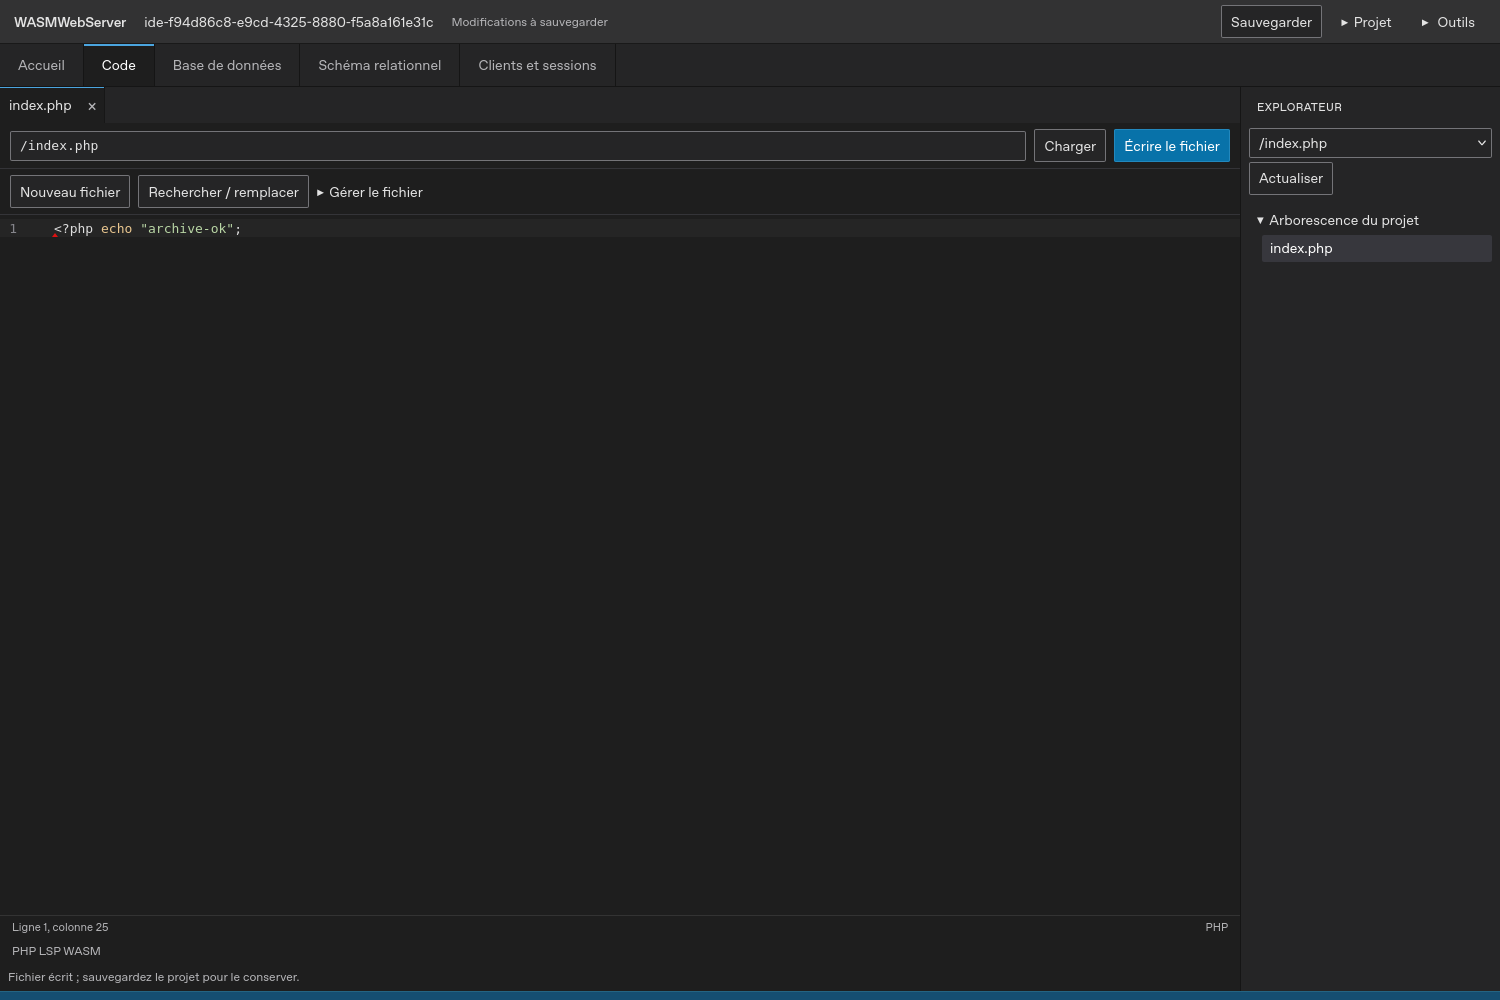
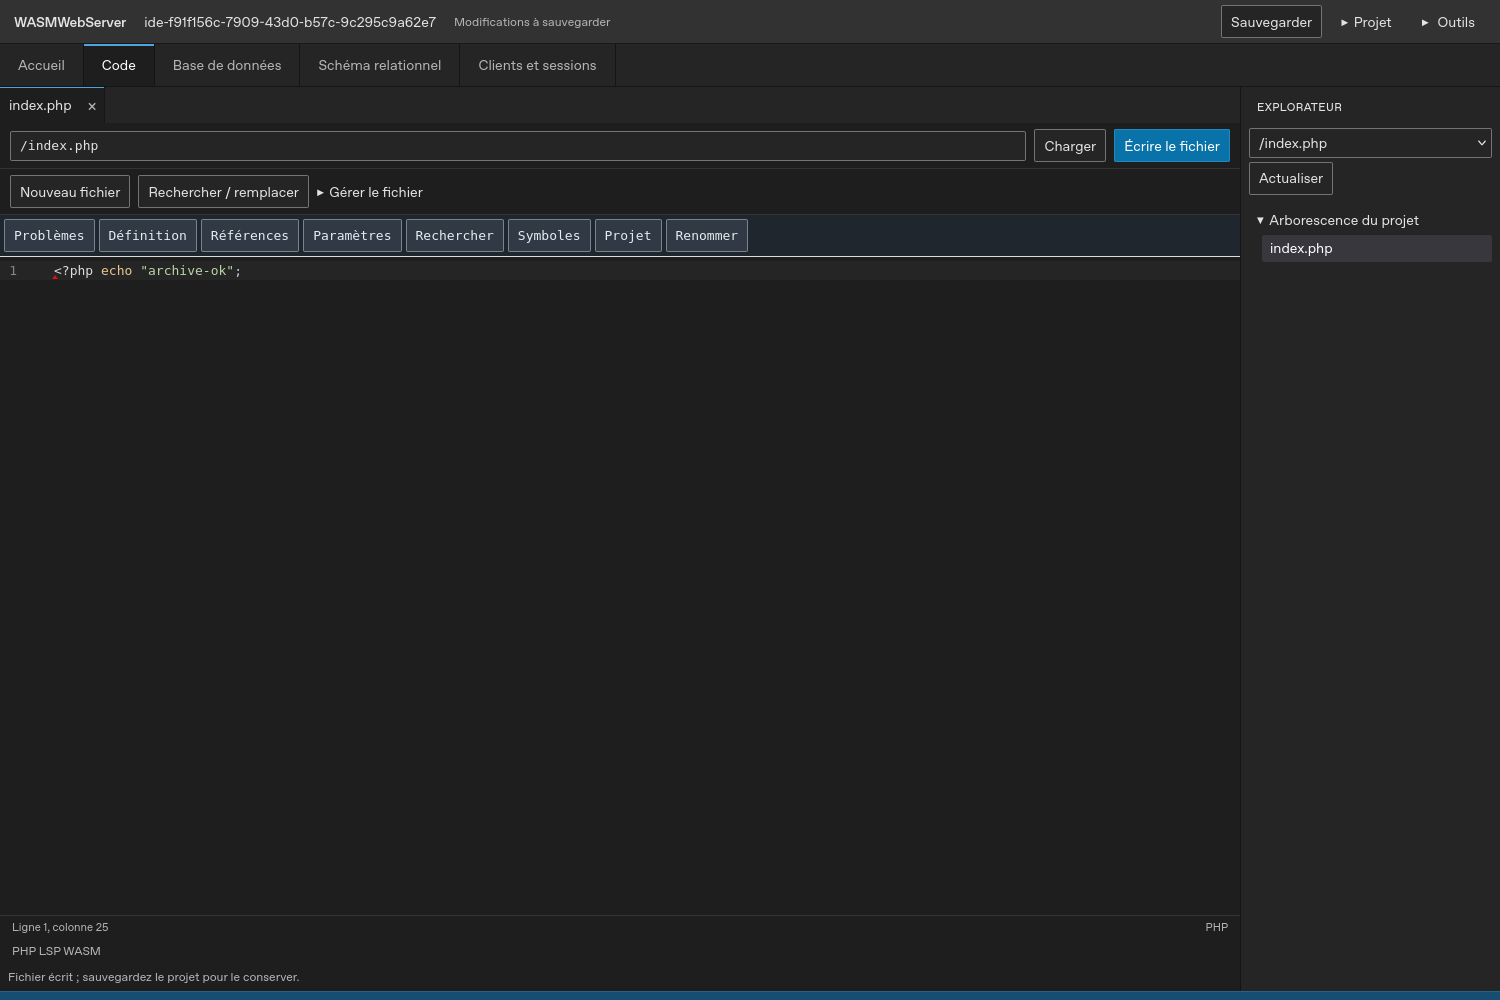
Clarify technical guides and wait for asynchronous file-list refresh

Changed region(s): [[0.0, 0.217, 0.5213, 0.279], [0.1227, 0.0, 0.3987, 0.031]]

diff --git a/apps/studio/README.md b/apps/studio/README.md
@@ -1,45 +1,16 @@
-# Studio navigateur du runtime natif
+# Studio : points d’entrée techniques
 
-Démarrage après compilation du target `pbl-runtime` :
+`index.html` définit la coque et les modèles DOM. `studio.mjs` orchestre les outils et le cycle du projet ; `service-worker.mjs` route les requêtes clientes vers le propriétaire moteur. `database/` regroupe les modèles SQL, DDL, valeurs et schéma ; `editor/` fournit CodeMirror et les services de langage.
+
+Les URL publiques de l’entrée, du Service Worker et des workers d’édition sont conservées. `scripts/package-studio.mjs` assemble les modules SQL et les bundles d’édition ; `scripts/serve-studio.mjs` sert les sources et associe sql-export.source.txt à database/sql-export.php. Ne pas servir ce dernier comme un backend PHP distant.
+
+Pour travailler sur cette application :
 
 ```sh
-npm ci
-npm run editor:build
 node scripts/serve-studio.mjs
+node tests/browser/editor-workbench.mjs
+node tests/browser/ide-workspace.mjs
+node tests/browser/studio-shell.mjs chromium
 ```
 
-Pour un hébergement statique ou un paquet de test autonome, suivre [DEPLOYMENT.md](../../docs/deployment.md). La préparation du paquet et sa réussite locale ne signifient pas qu'une URL publique a été publiée.
-
-Le serveur de développement fournit uniquement les ressources statiques, les en-têtes COOP/COEP et le module compilé. PHP et MariaDB s'exécutent dans le navigateur. Le studio possède un Worker moteur par projet ; le Service Worker route les requêtes des fenêtres vers ce propriétaire. Fermer le studio coupe donc le service des clients.
-
-La [première interface structurée](../../docs/README.md) sépare Code, SQL et données, Schéma, Clients, Ressources et Journal. Les onglets se parcourent au clavier. Le journal local conserve au plus 200 événements bornés, erreurs PHP/SQL et requêtes HTTP, sans corps, cookies ni paramètres d'URL ; il s'exporte en JSON. Un bandeau conserve la dernière erreur avec une piste de récupération jusqu'à sa fermeture explicite. Les [éditeurs CodeMirror et leurs services](editor/README.md) sont maintenant intégrés : PHP LSP Rust/WASM, SuperHTML et SWC avec définitions jQuery internes. La complétion PHP ne lance aucun interpréteur PHP supplémentaire.
-
-Ouvrir un projet, charger l'exemple scolaire dans un projet vide, puis ouvrir plusieurs fenêtres. « Fenêtre dans cette session » partage les cookies/PHPSESSID ; « Nouveau client indépendant » crée une identité distincte. Toutes utilisent la même base. Les requêtes PHP sont sérialisées dans la file bornée du moteur.
-
-L'éditeur lit et écrit le même VFS que PHP. La console et la grille interrogent directement le pont C ; la grille permet de modifier une cellule lorsqu'une clé primaire existe (100 lignes par page SQL, avec ordre par clé primaire lorsqu’elle existe). La grille préserve NULL et binaires, refuse une modification si les valeurs de la ligne ont changé et affiche structure/index. Un formulaire distingue DEFAULT, NULL, texte et binaire pour l’insertion ; une suppression demande confirmation et vérifie également la ligne d’origine. Le schéma lit `information_schema`, affiche toutes les colonnes, marque les clés et relie les colonnes des clés étrangères ; les tables sont déplaçables. Un formulaire crée une clé étrangère à partir du catalogue, avec actions ON DELETE/ON UPDATE ; les dialogues affichent le DDL puis relisent le schéma après application. Les outils peuvent être mis en veille ou déchargés avec conservation du brouillon dans IndexedDB. Le déchargement SQL ferme sa connexion et annule ses transactions non validées.
-
-« Sauvegarder » ferme SQL proprement, synchronise un snapshot IDBFS commun fichiers/SQL/sessions pour les nouveaux projets (anciens magasins conservés en compatibilité), puis recrée le moteur. Les changements non sauvegardés peuvent être perdus si l'onglet est arrêté. L’export ZIP réunit désormais les fichiers et les bases utilisateur actives avec un manifeste. Importez dans un projet vide ; les sessions clientes ne font pas partie du ZIP. Compression et décompression tournent dans un worker avec les primitives natives du navigateur. Le [guide de l’espace IDE](../../docs/README.md) décrit les onglets, la complétion contextuelle, les formulaires SQL, les relations par glisser-déposer, les cardinalités et les limites exactes.
-
-
-## Portée actuelle
-
-L'isolation virtuelle d'une même origine couvre cookies, localStorage et noms IndexedDB usuels ; sessionStorage reste propre à chaque fenêtre. Le bootstrap réécrit les URL usuelles de liens, formulaires, fetch et XHR. Ce mécanisme n'est pas une frontière de sécurité pour du code hostile, ni une émulation complète d'une origine navigateur : CSP, iframes, Workers créés par les projets, autres API de stockage et domaines de cookies parents demandent encore du travail. Une isolation par véritables origines reste à comparer.
-
-Le réseau PHP utilise les streams HTTP/HTTPS C soumis aux règles CORS et aux restrictions du navigateur. Aucun socket TCP/UDP général n'est fourni. MySQLi reste un sous-ensemble explicite, décrit dans `packages/php-native/README.md`.
-
-Vérification ciblée, avec les navigateurs Playwright installés :
-
-```sh
-PLAYWRIGHT_BROWSERS_PATH=/workspace/.cache/ms-playwright node tests/browser/studio.mjs
-PLAYWRIGHT_BROWSERS_PATH=/workspace/.cache/ms-playwright node tests/browser/studio-shell.mjs
-```
-
-Les reçus et captures de ce scénario vont dans `build-work/studio-receipts/`. Un échec n'est jamais un reçu de réussite. La capacité linéaire WASM affichée ne représente pas la RAM résidente ; les gains mémoire du déchargement et la tenue en charge restent à mesurer.
-
-La couverture reste inférieure à phpMyAdmin : les formulaires de tables, colonnes, index et contraintes ainsi que le ZIP multi-bases sont disponibles ; les gros imports et les formulaires avancés de routines/privilèges restent à compléter. Les commandes SQL explicites sont disponibles. Les limites du moteur ne doivent pas être masquées par l’interface.
-
-Le changement de projet rend les outils inertes pendant la transition et refuse les actions mises en attente depuis un autre propriétaire. La vue SQL conserve table et page lors du déchargement et relit les données au retour. Les fichiers de projet cachés usuels (.env, .htaccess) sont affichés/exportés ; les sessions et fichiers internes du studio restent exclus.
-
-La sauvegarde attend les requêtes déjà acceptées avant de figer les cookies/sessions. Après un échec de stockage, les nouveaux clients reçoivent 503 jusqu’au réessai. L’état SQL arrêté ne redémarre jamais dans le même WASM ; le studio recrée son propriétaire après sauvegarde réussie. Voir les [preuves de récupération](../../engine/fusion/STORAGE-RECOVERY-RECEIPT.md).
-
-Le [rapport d'interface](../../docs/README.md) consigne les skills appliqués, états rendus, contrastes et limites de vérification. La page locale `/apps/studio/interface-stress.html` affiche le vrai composant de diagnostic sous dix scénarios isolés ; ses données sont des exemples, sans projet actif.
+La préparation du moteur et de Playwright est décrite dans [CONTRIBUTING](../../CONTRIBUTING.md). Le [guide utilisateur](../../docs/README.md) porte les procédures fonctionnelles ; [architecture](../../docs/architecture.md) porte le stockage et les responsabilités. Les reçus locaux sont sous receipts/ et build-work/ ; ils sont liés à la révision testée.

diff --git a/docs/performance.md b/docs/performance.md
@@ -1,5 +1,7 @@
 # Performance : mesures et protocole
 
+> Les séries ci-dessous sont datées et ne constituent pas une nouvelle mesure de main. Le paquet IDE preview.2 pèse 23 109 017 octets ; son WASM natif 38 249 873 octets. Les anciennes tailles ZIP/WASM citées dans les séries ne décrivent pas cette distribution. Aucun profil utilisateur interchangeable ni gain RAM du dernier éditeur n’a été mesuré.
+
 
 ## Profils de performance et choix conseillé — 1 novembre 2026
 
@@ -17,7 +19,7 @@ Il n'existe pas encore de sélecteur de profils dans le studio. Le moteur actuel
 
 Décharger un outil ne retire pas ses fonctions JavaScript déjà chargées du module principal du studio. Fermer la console ne coupe pas MariaDB utilisée par PHP. La sauvegarde arrête SQL proprement et recrée le moteur ; la première connexion suivante réactive SQL. Aucun redémarrage SQL dans le même WASM arrêté, aucun rejeu automatique de POST.
 
-## Mesures du binaire actuel, refaites pour ce bilan
+## Mesures historiques du 1 novembre 2026
 
 Un navigateur neuf par exécution, Chromium 156.0.8078.4 et Firefox 157.0 sous Linux. Le protocole crée un runtime, exécute PHP seul, initialise SQL, crée 1 000 lignes et mesure 100 requêtes `COUNT(*)`. PSS globale = ensemble des processus descendants du test Playwright ; elle inclut navigateur, JS/JIT, Workers, WASM et VFS. Il ne s'agit ni de la seule RAM du moteur ni d'un pic continu.
 

diff --git a/provenance/reorganization-audit.md b/provenance/reorganization-audit.md
@@ -7,3 +7,5 @@ Constats : README moteur décrivant encore la cible future ; build de production
 Choix : ne pas découper artificiellement le contrôleur studio ni déplacer les points d’entrée web ; regrouper les modules SQL avec leurs dépendances ; conserver la profondeur de la recette native pour préserver ses chemins relatifs et son empreinte ; cinq guides de référence et CONTRIBUTING. Tests unitaires conservés au premier niveau, fixtures communes conservées. Aucun dossier vide.
 
 Les bilans chronologiques et procédures initiales obsolètes supprimés de docs restent dans Git ; les décisions, mesures, commandes et limites utiles sont reprises dans les guides. Les sources, notices et preuves natives restent conservées. La conversation de provenance est historique, pas une instruction active. Aucun tag applicatif existant déplacé ; aucune release utile supprimée. Pas de choix arbitraire d’une licence globale.
+
+Validation de migration : release technique publiée par le workflow 41548489229 ; manifeste et deux fichiers téléchargés indépendamment, SHA256SUMS vérifié. La CI 41548487642 a restauré cette release et validé le paquet sur les deux navigateurs ; un contrôle de suppression de fichier lisait la liste avant sa mise à jour asynchrone. Le test attend désormais le retrait réel de l’option. Les parcours locaux code/SQL et IDE passent sur Chromium et Firefox.

diff --git a/.github/workflow-templates/README.md b/.github/workflow-templates/README.md
@@ -2,4 +2,4 @@
 
 Ces trois workflows appartenaient à la préparation des sources et aux témoins amont : compilation PHP/MariaDB séparés, mesure du témoin et archivage des sources. Ils sont conservés hors de `workflows/` pour leur reproductibilité et ne se déclenchent plus.
 
-Pour une nouvelle expérience amont, copier explicitement la recette nécessaire dans `.github/workflows/`, vérifier ses versions et la lancer manuellement. Le produit courant utilise les deux workflows actifs : validation du studio et publication FTP manuelle. Les binaires natifs validés sont publiés dans une release technique épinglée et vérifiés contre leurs sources.
+Pour une nouvelle expérience amont, copier explicitement la recette nécessaire dans `.github/workflows/`, vérifier ses versions et la lancer manuellement. Le produit courant utilise trois workflows actifs : validation du studio, publication FTP manuelle et distribution technique native. Les binaires natifs validés sont publiés dans une release technique épinglée et vérifiés contre leurs sources.

diff --git a/apps/README.md b/apps/README.md
@@ -8,4 +8,4 @@ Chaque outil évolue entre actif, en veille et déchargé. Le déchargement cons
 
 La compatibilité navigateur complète, la comparaison d'origines séparées et les gains de mémoire physiques restent ouverts. Voir les limites du guide du studio.
 
-Orientation de l’éditeur : [CodeMirror 6, services WASM et définitions jQuery internes](../docs/README.md). Ces composants sont demandés mais pas encore intégrés.
+Orientation de l’éditeur : [CodeMirror 6, services WASM et définitions jQuery internes](../docs/README.md). Ces composants sont intégrés ; les capacités et limites sont décrites dans le guide.

diff --git a/docs/architecture.md b/docs/architecture.md
@@ -147,7 +147,7 @@ Le contrat C décrit une intention, pas une ABI stable. Les budgets de `config/`
 
 ## Références GitHub retenues
 
-Sources téléchargées le 31 octobre 2026. Les archives complètes préservent les notices ; aucune dépendance npm ni chaîne de compilation native n’a été installée.
+Inventaire initial du 31 octobre 2026 : les archives complètes préservent les notices. Les observations de préparation sont historiques ; le studio actuel est compilé et les dépendances npm installées lors de la CI.
 
 | Dépôt / commit | Rôle | Éléments utiles | Limites / travail |
 |---|---|---|---|---|
